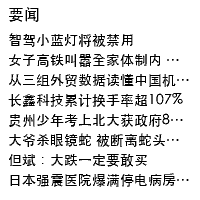
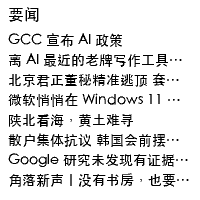
Phase 11: custom RSS/Atom news sources
providers/rss.py parses both formats with stdlib xml.etree — no
feedparser installed, and the standard library covers RSS 2.0 (<rss>
root) and Atom (<feed> root, namespaced <entry>/<title>) without it.
Failures (network, malformed XML, unrecognized root tag) return an empty
list rather than raising, since the caller iterates a source list and
one bad source shouldn't sink the rest.

Verified against four live candidates before picking defaults — a repeat
of the discipline the project already learned the hard way when Sina's
listed RSS feed turned out to be abandoned. sspai.com/feed (RSS 2.0),
solidot.org/index.rss (RSS 2.0), v2ex.com/index.xml (Atom), and
ruanyifeng.com/blog/atom.xml (Atom) all returned real, dated entries from
today. Also confirmed ruanyifeng and solidot 403 without a browser User-
Agent, which is why rss.py sends one unconditionally. Default list
became solidot + sspai + toutiao (kept as a special "toutiao" sentinel
source rather than a real feed, since it isn't one).

Caught a real bug in the merge logic before shipping it. The first
version filled the output by walking the source list in order and
draining each one before moving to the next. Toutiao and solidot both
routinely return 8+ items on their own, so whichever source landed first
silently consumed the entire quota and every source configured after it
never appeared at all — reordering the defaults to put toutiao last just
moved the problem onto solidot instead of fixing it. Rewrote fetch() as
[…]

Changed region(s): [[0.03, 0.57, 0.96, 0.96], [0.03, 0.27, 0.96, 0.54], [0.03, 0.15, 0.69, 0.24]]

diff --git a/templates/settings.html b/templates/settings.html
@@ -27,6 +27,14 @@ input[type=text]{width:100%;box-sizing:border-box;border:1px solid #e3ded5;borde
 .checkrow{display:flex;align-items:center;gap:8px;padding:6px 0;font-size:14px}
 input[type=number]{width:100%;box-sizing:border-box;border:1px solid #e3ded5;border-radius:12px;background:#fbfaf7;color:#1d1d1f;font-size:15px;padding:12px}
 select{width:100%;box-sizing:border-box;border:1px solid #e3ded5;border-radius:12px;background:#fbfaf7;color:#1d1d1f;font-size:15px;padding:12px}
+.srcrow{display:flex;gap:6px;align-items:center;padding:8px 0;border-bottom:1px solid #f0ede6}
+.srcrow:last-child{border-bottom:none}
+.srcrow .srcfields{flex:1;display:flex;flex-direction:column;gap:4px}
+.srcrow input[type=text]{padding:8px;font-size:13px}
+.srcrow .srcname{font-weight:600}
+.srcbtn{background:#ebe7df;color:#4b4035;border:0;border-radius:8px;width:28px;height:28px;font-size:14px;cursor:pointer;flex-shrink:0}
+.srcbtn.del{background:#fdecea;color:#d70015}
+.addsrc{width:100%;background:#ebe7df;color:#4b4035;padding:12px;text-align:center;border:0;border-radius:12px;font-size:14px;cursor:pointer;margin-top:10px}
 </style>
 </head>
 <body>
@@ -61,6 +69,17 @@ select{width:100%;box-sizing:border-box;border:1px solid #e3ded5;border-radius:1
 </div>
 
 <div class="card">
+  <h1 style="font-size:17px;margin-top:0">📰 要闻源</h1>
+  <div class="field hint" style="margin-top:-8px">
+    支持任意公开 RSS 2.0 / Atom 地址；地址填 <code>toutiao</code> 表示用今日头条热榜。排在前面的源优先填满显示条数。
+  </div>
+  <div id="newsSourcesList"></div>
+  <button class="addsrc" onclick="addNewsSource()">+ 添加源</button>
+  <button class="btn" onclick="saveConfig()" style="margin-top:14px">保存</button>
+  <div id="msg3"></div>
+</div>
+
+<div class="card">
   <h1 style="font-size:17px;margin-top:0">🔁 自动推送（停驻模式）</h1>
   <div class="field switch">
     <label style="margin:0">布防（开启后按周期自动推送）</label>
@@ -85,7 +104,40 @@ select{width:100%;box-sizing:border-box;border:1px solid #e3ded5;border-radius:1
   <div id="msg2"></div>
 </div>
 
-<script>
+let newsSources = [];
+
+function renderNewsSources(){
+  const box = document.getElementById('newsSourcesList');
+  box.innerHTML = newsSources.map((s, i) => `
+    <div class="srcrow">
+      <div class="srcfields">
+        <input type="text" class="srcname" value="${(s.name||'').replace(/"/g,'&quot;')}" placeholder="源名称" oninput="newsSources[${i}].name=this.value">
+        <input type="text" value="${(s.url||'').replace(/"/g,'&quot;')}" placeholder="RSS/Atom 地址，或 toutiao" oninput="newsSources[${i}].url=this.value">
+      </div>
+      <button class="srcbtn" onclick="moveNewsSource(${i},-1)" ${i===0?'disabled':''}>↑</button>
+      <button class="srcbtn" onclick="moveNewsSource(${i},1)" ${i===newsSources.length-1?'disabled':''}>↓</button>
+      <button class="srcbtn del" onclick="removeNewsSource(${i})">✕</button>
+    </div>
+  `).join('');
+}
+
+function addNewsSource(){
+  newsSources.push({name: '', url: ''});
+  renderNewsSources();
+}
+
+function removeNewsSource(i){
+  newsSources.splice(i, 1);
+  renderNewsSources();
+}
+
+function moveNewsSource(i, delta){
+  const j = i + delta;
+  if(j < 0 || j >= newsSources.length) return;
+  [newsSources[i], newsSources[j]] = [newsSources[j], newsSources[i]];
+  renderNewsSources();
+}
+
 async function loadConfig(){
   const r = await fetch('/api/config');
   const cfg = await r.json();
@@ -94,6 +146,8 @@ async function loadConfig(){
   document.getElementById('weather_city').value = cfg.weather_city || '';
   document.getElementById('stock_symbols').value = (cfg.stock_symbols || []).join(', ');
   document.getElementById('stocks_view').value = cfg.stocks_view || 'overview';
+  newsSources = (cfg.news_sources || []).map(s => ({name: s.name || '', url: s.url || ''}));
+  renderNewsSources();
   document.getElementById('auto_push_enabled').checked = !!cfg.auto_push_enabled;
   document.getElementById('auto_push_interval_minutes').value = cfg.auto_push_interval_minutes || 10;
   const pages = new Set(cfg.auto_push_pages || []);
@@ -109,6 +163,7 @@ async function saveConfig(){
     stock_symbols: document.getElementById('stock_symbols').value
       .split(',').map(s => s.trim()).filter(Boolean),
     stocks_view: document.getElementById('stocks_view').value,
+    news_sources: newsSources.filter(s => s.url.trim()).map(s => ({name: s.name.trim() || s.url.trim(), url: s.url.trim()})),
     auto_push_enabled: document.getElementById('auto_push_enabled').checked,
     auto_push_interval_minutes: Math.max(5, parseInt(document.getElementById('auto_push_interval_minutes').value) || 10),
     auto_push_pages: pages,
@@ -123,6 +178,7 @@ async function saveConfig(){
     if(r.ok){
       msg.innerHTML = '<div class="msg ok">已保存</div>';
       document.getElementById('msg2').innerHTML = '<div class="msg ok">已保存</div>';
+      document.getElementById('msg3').innerHTML = '<div class="msg ok">已保存</div>';
     } else {
       msg.innerHTML = '<div class="msg err">保存失败</div>';
     }

diff --git a/providers/news.py b/providers/news.py
@@ -1,18 +1,74 @@
-"""新闻数据源：今日头条热榜公开接口，不需要 API key。
+"""新闻数据源：多 RSS/Atom 源 + 头条热榜，按用户在设置页配置的清单抓取。
 
-早先考虑过新浪滚动新闻 RSS，实测该源已废弃（整个 feed 只剩一条 2016 年的
-视频链接），改用头条热榜——实测确认标题随时间变化、内容时效。
+Phase 4 时只有头条热榜；Phase 11 加入通用 RSS/Atom 支持
+（providers/rss.py），头条热榜保留为特殊来源——它不是 RSS 接口，用哨兵值
+TOUTIAO_SENTINEL 标记。
+
+默认清单（config.py 的 DEFAULTS['news_sources']）里的每个源都逐个实测过：
+本项目已经踩过一次坑——新浪滚动新闻 RSS 早已废弃，整个 feed 只剩一条 2016
+年的视频链接。这次的默认清单（头条热榜 / solidot / 少数派）全部重新验证
+过是活的、有当日/近日条目，不是从网上抄一份清单就直接用。
 """
 import requests
+
+from providers import rss as rss_provider
 
 HOT_BOARD_URL = "https://www.toutiao.com/hot-event/hot-board/?origin=toutiao_pc"
 UA = "Mozilla/5.0"
 TIMEOUT = 8
 
+TOUTIAO_SENTINEL = "toutiao"
 
-def fetch(limit: int = 8) -> list:
-    """返回最多 limit 条标题（字符串列表）。"""
+
+def _fetch_toutiao(limit: int) -> list:
     r = requests.get(HOT_BOARD_URL, headers={"User-Agent": UA}, timeout=TIMEOUT)
     r.raise_for_status()
     data = r.json().get("data", [])
     return [item["Title"] for item in data[:limit] if item.get("Title")]
+
+
+def fetch_source(source: dict, limit: int = 8) -> list:
+    """抓单个源。source = {"name": str, "url": str}；url 等于 TOUTIAO_SENTINEL
+    时走头条热榜，否则当作 RSS/Atom URL 解析。失败一律返回空列表，不抛
+    异常——调用方按清单逐个抓，单个源挂了不该拖累其余源。
+    """
+    url = source.get("url", "")
+    if url == TOUTIAO_SENTINEL:
+        try:
+            return _fetch_toutiao(limit)
+        except (requests.RequestException, ValueError, KeyError):
+            return []
+    return rss_provider.fetch(url, limit=limit)
+
+
+def fetch(sources: list = None, limit: int = 8) -> list:
+    """按配置的源清单抓取，标题去重后最多返回 limit 条。sources 为空时
+    退回头条热榜（兼容 Phase 4 时期只有头条一个源、没有 sources 参数的
+    调用方式）。
+
+    合并策略是轮流取（round-robin），不是"排在前面的源先填满"：早期版本
+    按清单顺序依次填满，实测发现只要排第一的源自己条目数就够（头条、
+    solidot 都轻松≥8条），会导致排在后面的源配了也白配、一条都露不出来，
+    "多源"这个功能形同虚设。轮流取才能让清单顺序仍然决定优先级（排前面
+    的源循环时先取），但不会让任何一个源独占全部名额。
+    """
+    if not sources:
+        sources = [{"name": "今日头条", "url": TOUTIAO_SENTINEL}]
+
+    per_source = [fetch_source(src, limit=limit) for src in sources]
+
+    seen = set()
+    out = []
+    idx = [0] * len(per_source)
+    while len(out) < limit and any(idx[i] < len(per_source[i]) for i in range(len(per_source))):
+        for i, titles in enumerate(per_source):
+            if len(out) >= limit:
+                break
+            while idx[i] < len(titles):
+                title = titles[idx[i]]
+                idx[i] += 1
+                if title not in seen:
+                    seen.add(title)
+                    out.append(title)
+                    break
+    return out

diff --git a/providers/rss.py b/providers/rss.py
@@ -1,0 +1,64 @@
+"""通用 RSS 2.0 / Atom 解析器，用标准库 xml.etree，不依赖 feedparser
+（未安装，且标准库对这两种格式足够用）。
+
+RSS 2.0：<rss><channel><item><title>...
+Atom：  <feed xmlns="http://www.w3.org/2005/Atom"><entry><title>...
+
+两种格式的顶层标签名不同（rss vs feed），据此分流解析逻辑。
+必须带浏览器 User-Agent——阮一峰博客、solidot 等站点会对无 UA 请求返回 403
+（已实测确认，不是这两个源本身有问题）。
+"""
+import xml.etree.ElementTree as ET
+
+import requests
+
+UA = "Mozilla/5.0 (Macintosh; Intel Mac OS X 10_15_7) AppleWebKit/537.36"
+TIMEOUT = 8
+
+ATOM_NS = "{http://www.w3.org/2005/Atom}"
+
+
+def _parse_rss2(root) -> list:
+    channel = root.find("channel")
+    if channel is None:
+        return []
+    titles = []
+    for item in channel.findall("item"):
+        t = item.findtext("title")
+        if t:
+            titles.append(t.strip())
+    return titles
+
+
+def _parse_atom(root) -> list:
+    titles = []
+    for entry in root.findall(f"{ATOM_NS}entry"):
+        t = entry.findtext(f"{ATOM_NS}title")
+        if t:
+            titles.append(t.strip())
+    return titles
+
+
+def fetch(url: str, limit: int = 10) -> list:
+    """抓一个 RSS/Atom 源，返回标题列表（最多 limit 条）。
+
+    解析失败（网络错误、非法 XML、既不是 rss 也不是 feed 顶层标签）时
+    返回空列表而不是抛异常——调用方（providers/news.py）按源逐个抓取，
+    单个源失败不该影响其他源。
+    """
+    try:
+        r = requests.get(url, headers={"User-Agent": UA}, timeout=TIMEOUT)
+        r.raise_for_status()
+        root = ET.fromstring(r.content)
+    except (requests.RequestException, ET.ParseError):
+        return []
+
+    tag = root.tag.split("}")[-1]  # 去掉可能的命名空间前缀
+    if tag == "rss":
+        titles = _parse_rss2(root)
+    elif tag == "feed":
+        titles = _parse_atom(root)
+    else:
+        return []
+
+    return titles[:limit]

diff --git a/config.py b/config.py
@@ -15,7 +15,16 @@ DEFAULTS = {
     "weather_city": "深圳",
     "stock_symbols": ["AAPL", "NVDA"],  # 用户 2026-07-28 确认的初始清单
     "stocks_view": "overview",  # "overview"(多只概览) 或 "detail"(单只详情，取清单第一只)
-    "news_sources": [],  # Phase 4 实现 providers/news.py 时补默认源
+    # Phase 11：默认清单，每一条都实测过是活的、有当日/近日条目
+    # （教训：新浪滚动新闻 RSS 早已废弃过，见 docs/PLAN-v2.md Phase 11）。
+    # 头条放最后：抓取逻辑是"排在前面的源优先填满显示条数"，头条热榜
+    # 条目多、几乎总能单独填满全部名额，放第一会让 solidot/少数派配了也
+    # 白配、永远露不出来——放最后当兜底，缺口才轮到它补。
+    "news_sources": [
+        {"name": "奇客Solidot", "url": "https://www.solidot.org/index.rss"},
+        {"name": "少数派", "url": "https://sspai.com/feed"},
+        {"name": "今日头条", "url": "toutiao"},
+    ],
     # Phase 7 自动推送（停驻模式，见 docs/PHASE0_FINDINGS.md）。
     # 默认关闭——必须由用户显式布防，理由见 ARCHITECTURE.md §3.1：
     # 自动推送可能覆盖用户自己用官方页面传图的操作。

diff --git a/app.py b/app.py
@@ -37,7 +37,7 @@ def _render_stocks(cfg: dict):
 PAGES = {
     "weather": ("天气", lambda cfg: weather.render(weather_provider.fetch(cfg["weather_city"]))),
     "stocks": ("行情", _render_stocks),
-    "news": ("要闻", lambda cfg: news.render(news_provider.fetch())),
+    "news": ("要闻", lambda cfg: news.render(news_provider.fetch(cfg.get("news_sources")))),
     "usage": ("用量", lambda cfg: usage.render(ccusage.summarize())),
     "qimen": ("奇门遁甲", lambda cfg: qimen.render(qimen_provider.cast())),
 }

diff --git a/docs/PLAN-v2.md b/docs/PLAN-v2.md
@@ -4,7 +4,7 @@
 >
 > 所有"已确认事实"的实测依据在 `docs/ARCHITECTURE.md`，不在此重复。
 
-> **2026-07-29 状态更新**：Phase 6-10 已完成并推送。Phase 9（天气图标）：7 种极简几何图标（晴/多云/阴/雨/雪/雾/雷）逐个走真实转换 API 验证过轮廓清晰；踩过一个坑——"多云"最初用同心叠放+局部描边画法糊成两个空心圆圈，"雷"的黑色闪电画在黑色云上完全不可见，都已改用不重叠构图/白色镂空重画；覆盖 wttr.in 的 45 个天气代码，未匹配兜底为"阴"（最保守，不会误报晴/雨）。Phase 10（行情增强）：成交量/52周高低已加（Yahoo v8 chart 接口本来就有）；下次财报日期需要 `v10/finance/quoteSummary`，实测无认证返回 401 Invalid Crumb，按计划的但书直接跳过，不绕认证；新增单只详情版式，设置页可选概览/详情。Phase 11–12 待做。
+> **2026-07-30 状态更新**：Phase 6-11 已完成并推送。Phase 9（天气图标）：7 种极简几何图标逐个验证过轮廓清晰，踩过"多云"糊成两个圆圈、"雷"闪电黑对黑不可见两个坑，都已修。Phase 10（行情增强）：成交量/52周高低已加；财报日期接口需要认证（401），按计划的但书跳过；新增单只详情版式。**Phase 11（要闻自定义源）**：新写 `providers/rss.py` 用标准库解析 RSS 2.0/Atom，四个候选源（少数派/V2EX/阮一峰/solidot）逐个实测过是活的、有当日条目；默认清单定为 solidot+少数派+头条。**踩了一个新坑并修了**：合并多源最初按"清单顺序依次填满"实现，实测发现只要排第一的源自己条目数够（头条、solidot 都轻松≥8条），会让后面配置的源一条都露不出来——"多源"这个功能形同虚设，改成轮流取（round-robin）才让清单顺序仍然决定优先级、但不会让任何一个源独占全部名额。设置页的"拖动排序"用上下箭头按钮实现，不是真正的拖拽（vanilla JS 写可靠拖拽排序成本明显更高，效果等价）。Phase 12 待做。
 
 ---
 

diff --git a/README.md b/README.md
@@ -40,7 +40,7 @@ python3 app.py
 | 🔮 **摇卦** | 三枚铜钱法起六爻，服务端用密码学安全随机数（`secrets`，不是 `random`）真实抛掷。给出本卦、变卦（如有动爻）、和一句判断 |
 | 🌤 **天气** | 数据源 [wttr.in](https://wttr.in)，城市在设置页里改。图标+温度并排，另有体感温度和降水概率。图标是纯 PIL 几何图形（不用外部图标字体，位图在 200×200 下容易糊），覆盖晴/多云/阴/雨/雪/雾/雷 7 类 |
 | 📈 **行情** | 数据源 Yahoo Finance 公开接口，股票清单在设置页里改。两种版式：概览（多只，各配一条分时线）或详情（清单第一只占满整屏，含成交量/52周高低），设置页切换 |
-| 📰 **要闻** | 数据源今日头条热榜 |
+| 📰 **要闻** | 多个 RSS/Atom 源合并（round-robin，不会被单一源占满），设置页可增删排序，任意公开 RSS 2.0/Atom 地址都支持，另有今日头条热榜作为特殊源 |
 | 📊 **Token 用量** | 解析本机 Claude Code 的本地转录文件，展示今日 token 消耗、近 5 小时窗口、按模型拆分、近似成本估算。**这不是官方订阅额度百分比**——那个数据本地拿不到，这里给的是本地转录统计出的用量，别混着看 |
 | 🔯 **奇门遁甲** | 按当前时间起盘（节气定局/阴阳遁/值符值使/三盘，复用同一作者 mingli-skill 项目的排盘引擎），3×3 九宫格显示门/星/干支，粗框标出值符宫 |
 
@@ -116,7 +116,8 @@ pocket-prophet-dashboard/
 - ✅ Phase 8 奇门遁甲
 - ✅ Phase 9 天气图标
 - ✅ Phase 10 行情增强
-- 🔜 Phase 11–12（`docs/PLAN-v2.md`）：要闻自定义源、用量页重设计
+- ✅ Phase 11 要闻自定义源
+- 🔜 Phase 12（`docs/PLAN-v2.md`）：用量页重设计
 
 ## 定位：扩展，不是破解
 
